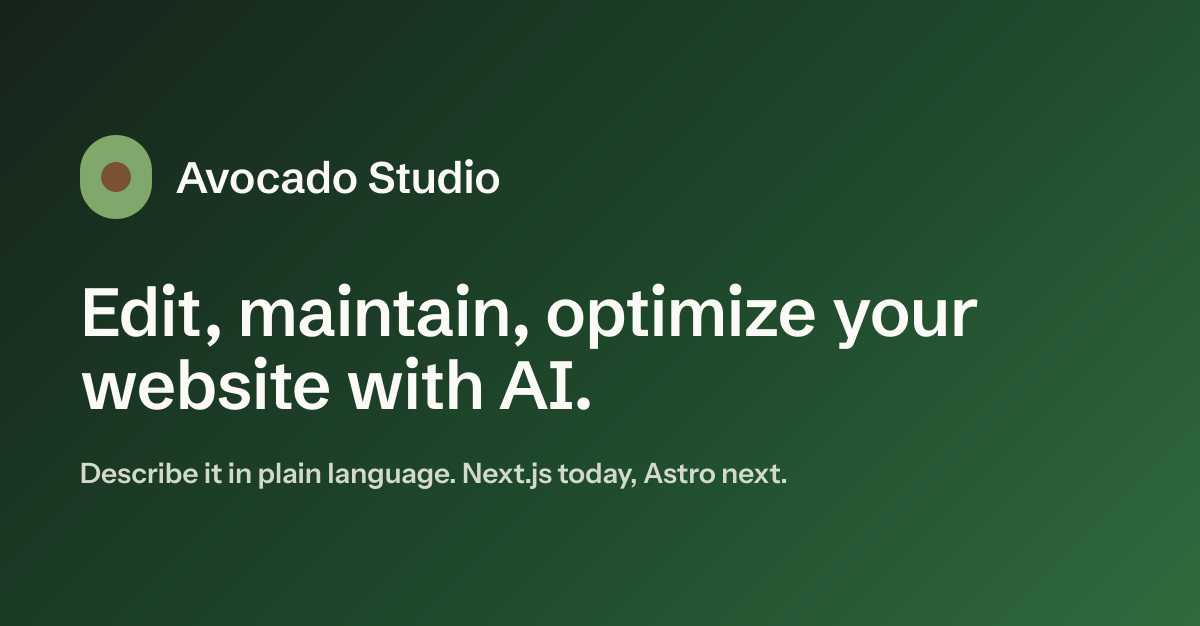
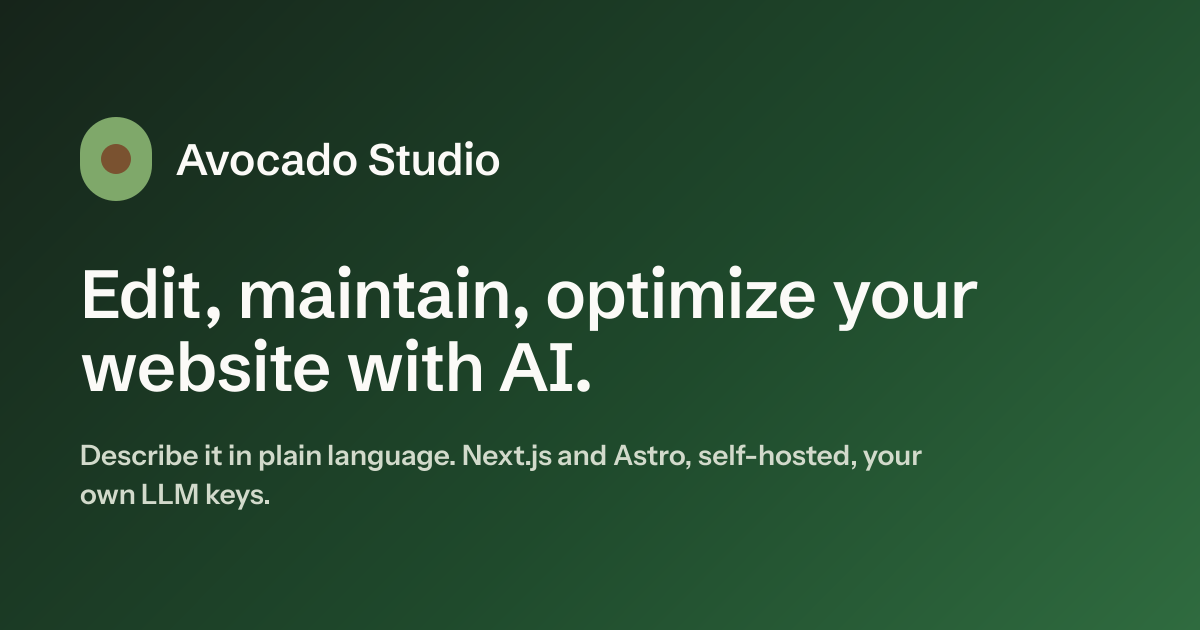
The page the launch links to had no way to try the product
Product Hunt sends visitors to the live demo; the landing page's only
actions were the docs and an "early access" mailto. The hero's one primary
action is now the live demo, the install command is one line under it and a
copyable section further down, and the contact form stops relabelling
itself "Join early access" after a submit.

It also said the source lives on GitHub, and named that repo in its
structured data; the repo is private. The packages are Apache-2.0 on npm
with readable source, so it says that. The OG card said "Astro next" and
was 1200x626.

Claude-Session: https://claude.ai/code/session_01SaJciMgxrb8cbdaU2EzpEF

Changed region(s): [[0.0617, 0.4249, 0.8325, 0.6677], [0.0617, 0.6981, 0.7708, 0.8195], [0.0617, 0.1821, 0.4317, 0.3642]]

diff --git a/src/site.ts b/src/site.ts
@@ -16,4 +16,10 @@ export const GITHUB_URL = 'https://github.com/avocadostudio-ai/avocado';
 export const SHOW_GITHUB_LINKS = false;
 
 export const DOCS_URL = 'https://docs.avocadostudio.dev';
+
+/** The hosted playground: the real editor on a sample site, one session per browser. */
+export const DEMO_URL = 'https://avocado-editor.vercel.app/';
+
+/** What a developer runs to put Avocado Studio on their own machine. */
+export const INSTALL_COMMAND = 'npm create avocado-site@latest';
 export const AUTHOR = { name: 'Yury Horbach', url: 'https://yurybuilds.com' };

diff --git a/src/navigation.ts b/src/navigation.ts
@@ -92,6 +92,6 @@ export const footerData = {
     { ariaLabel: 'Contact', icon: 'tabler:mail', href: CONTACT_MAILTO },
   ],
   footNote: `
-    Free and open source. Built by <a class="text-link underline" href="https://yurybuilds.com">Yury Horbach</a>.
+    Free, Apache-2.0 on npm. Built by <a class="text-link underline" href="https://yurybuilds.com">Yury Horbach</a>.
   `,
 };
